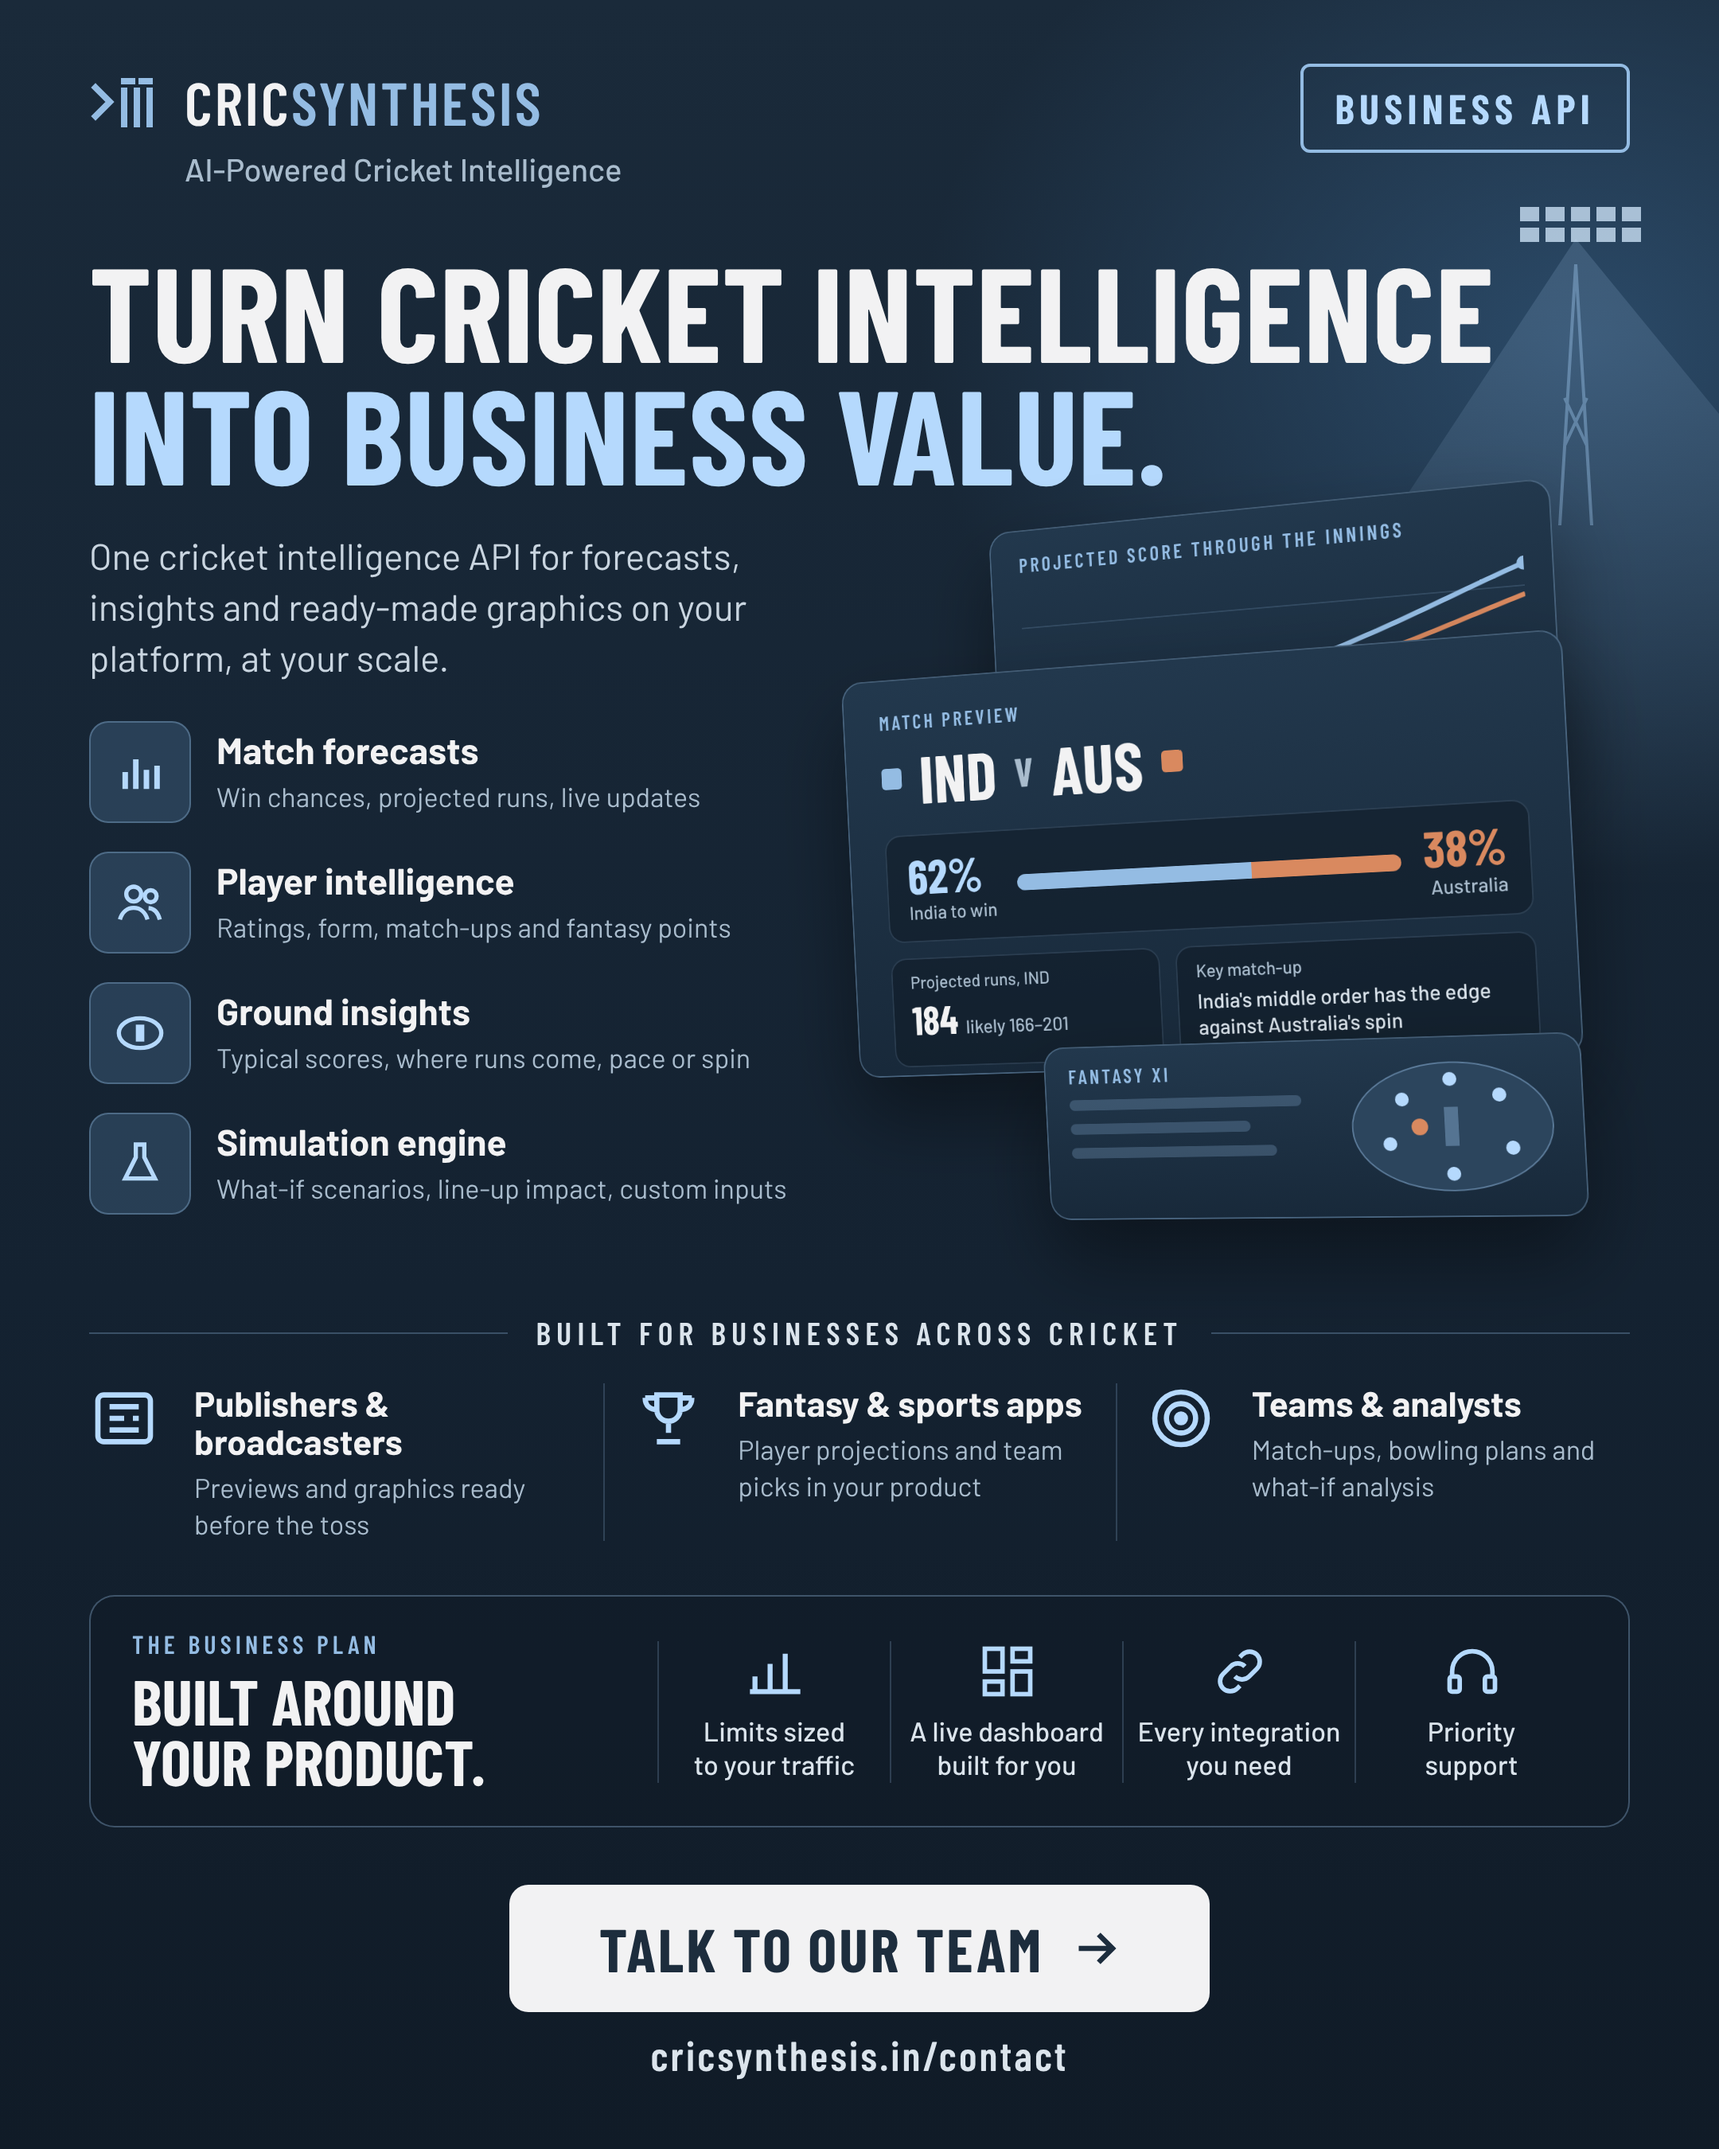
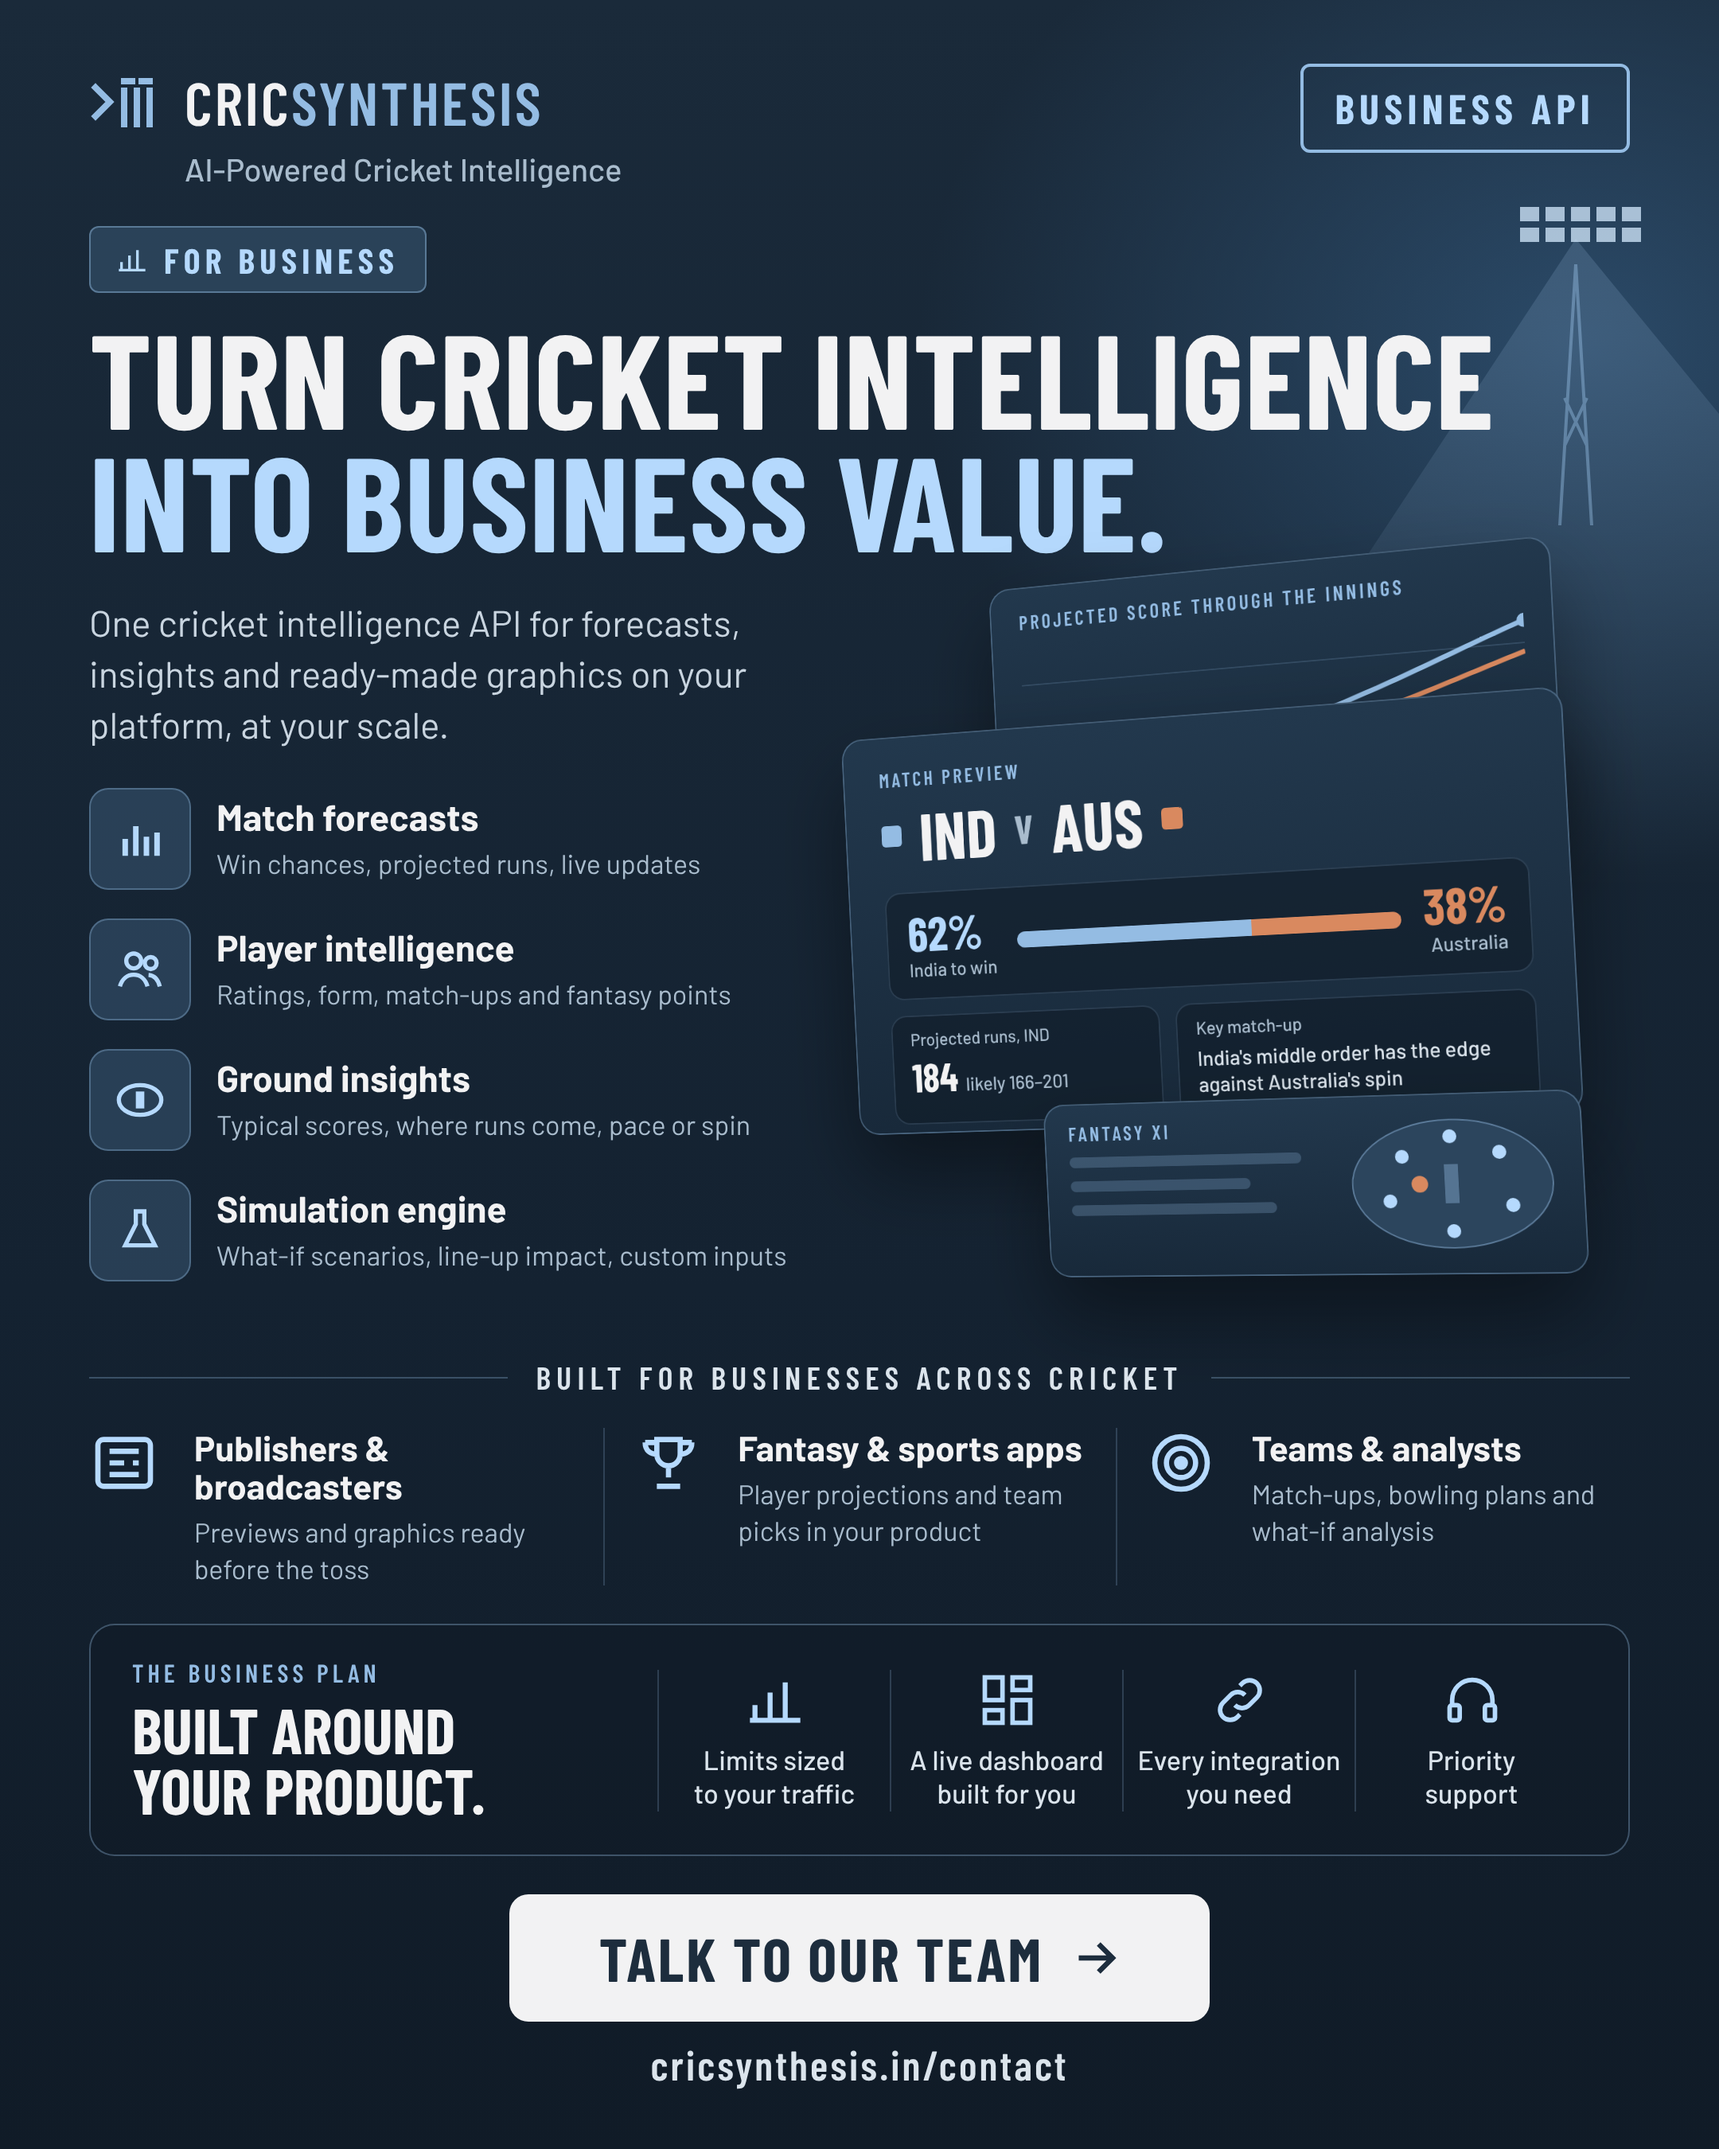
Business API dark poster: For business tag
Claude-Session: https://claude.ai/code/session_01DtYK7t4cwHWwRbQiwwp7NB

diff --git a/marketing/posters/business-dark.html b/marketing/posters/business-dark.html
@@ -15,7 +15,9 @@ body{background:#777}
 .lock svg{width:48px;height:48px;color:var(--s4)}.lock b{font-weight:600;color:var(--s4)}
 .tagl{font:500 20px/1 var(--body);color:var(--mut);margin:8px 0 0 60px}
 .badge{border:2px solid var(--s4);color:var(--s3);font:700 26px/1 var(--head);letter-spacing:.12em;text-transform:uppercase;padding:13px 20px;border-radius:6px}
-h1{position:relative;margin-top:40px;font:700 84px/.92 var(--head);text-transform:uppercase;letter-spacing:.004em}
+.eye{position:relative;margin-top:26px;display:inline-flex;align-self:flex-start;align-items:center;gap:10px;background:rgba(65,97,128,.45);border:1px solid rgba(148,188,227,.45);color:var(--s3);font:700 22px/1 var(--head);letter-spacing:.14em;text-transform:uppercase;padding:9px 16px;border-radius:6px}
+.eye svg{width:20px;height:20px}
+h1{position:relative;margin-top:14px;font:700 84px/.92 var(--head);text-transform:uppercase;letter-spacing:.004em}
 h1 span{display:block;color:var(--s3)}
 .body{position:relative;margin-top:22px;width:440px}
 .sub{font:400 23px/1.4 var(--body);color:#c9d5e0}
@@ -26,7 +28,7 @@ h1 span{display:block;color:var(--s3)}
 .feats b{display:block;font:700 23px/1.1 var(--body)}
 .feats span{display:block;font:400 17px/1.32 var(--body);color:var(--mut);margin-top:4px}
 /* product stack */
-.stack{position:absolute;left:520px;top:318px;width:560px;height:520px;perspective:1400px;transform:scale(.86);transform-origin:top left}
+.stack{position:absolute;left:520px;top:354px;width:560px;height:520px;perspective:1400px;transform:scale(.86);transform-origin:top left}
 .layer{position:absolute;background:linear-gradient(180deg,#22384d,#18293a);border:1px solid rgba(148,188,227,.35);border-radius:16px;box-shadow:0 30px 60px rgba(0,0,0,.4)}
 .back{left:110px;top:0;width:420px;height:200px;transform:rotateY(-14deg) rotateZ(-3deg);padding:18px 22px}
 .back .k,.front .k,.under .k{font:600 15px/1 var(--head);letter-spacing:.14em;text-transform:uppercase;color:var(--s4)}
@@ -47,7 +49,7 @@ h1 span{display:block;color:var(--s3)}
 .under{left:150px;top:390px;width:400px;height:130px;transform:rotateY(-14deg) rotateZ(-3deg);padding:14px 18px;display:grid;grid-template-columns:1fr 150px;gap:14px}
 .under .ln{height:8px;border-radius:4px;background:rgba(148,188,227,.25);margin-top:10px}
 /* audiences */
-.sect{position:relative;margin-top:64px;display:flex;align-items:center;gap:18px;font:600 20px/1 var(--head);letter-spacing:.18em;text-transform:uppercase;color:#dbe4ec}
+.sect{position:relative;margin-top:50px;display:flex;align-items:center;gap:18px;font:600 20px/1 var(--head);letter-spacing:.18em;text-transform:uppercase;color:#dbe4ec}
 .sect::before,.sect::after{content:"";flex:1;height:1px;background:rgba(148,188,227,.3)}
 .who{position:relative;margin-top:22px;display:grid;grid-template-columns:repeat(3,1fr)}
 .who > div{display:grid;grid-template-columns:52px 1fr;gap:14px;padding:0 18px;border-left:1px solid rgba(148,188,227,.22)}
@@ -55,12 +57,12 @@ h1 span{display:block;color:var(--s3)}
 .who svg{width:44px;height:44px;color:var(--s3)}
 .who b{display:block;font:700 22px/1.1 var(--body)}
 .who span{display:block;font:400 17px/1.32 var(--body);color:var(--mut);margin-top:6px}
-.adv{position:relative;margin-top:34px;border:1px solid rgba(148,188,227,.35);border-radius:16px;background:rgba(15,26,37,.5);display:grid;grid-template-columns:330px repeat(4,1fr);align-items:center;padding:22px 26px}
+.adv{position:relative;margin-top:24px;border:1px solid rgba(148,188,227,.35);border-radius:16px;background:rgba(15,26,37,.5);display:grid;grid-template-columns:330px repeat(4,1fr);align-items:center;padding:22px 26px}
 .adv .l small{display:block;font:600 16px/1 var(--head);letter-spacing:.16em;text-transform:uppercase;color:var(--s4)}
 .adv .l b{display:block;font:700 40px/.95 var(--head);text-transform:uppercase;margin-top:8px}
 .adv .it{text-align:center;border-left:1px solid rgba(148,188,227,.22);padding:0 8px;font:500 17px/1.25 var(--body);color:#dbe4ec}
 .adv .it svg{width:38px;height:38px;color:var(--s3);display:block;margin:0 auto 8px}
-.cta{position:relative;margin:36px auto 0;display:flex;align-items:center;justify-content:center;gap:18px;width:440px;height:80px;background:var(--paper);color:var(--s9);border-radius:12px;font:700 38px/1 var(--head);letter-spacing:.04em;text-transform:uppercase}
+.cta{position:relative;margin:24px auto 0;display:flex;align-items:center;justify-content:center;gap:18px;width:440px;height:80px;background:var(--paper);color:var(--s9);border-radius:12px;font:700 38px/1 var(--head);letter-spacing:.04em;text-transform:uppercase}
 .cta svg{width:30px;height:30px}
 .url{position:relative;text-align:center;margin-top:14px;font:600 26px/1 var(--head);letter-spacing:.06em;color:#dbe4ec}
 </style></head><body>
@@ -92,6 +94,7 @@ h1 span{display:block;color:var(--s3)}
     <div><div class="lock"><svg><use href="#mark"/></svg><span>CRIC<b>SYNTHESIS</b></span></div><div class="tagl">AI-Powered Cricket Intelligence</div></div>
     <div class="badge">Business API</div>
   </div>
+  <div class="eye"><svg><use href="#i-scale"/></svg>For business</div>
   <h1>Turn cricket intelligence<span>into business value.</span></h1>
 
   <div class="body">
